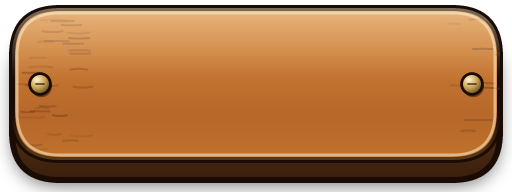
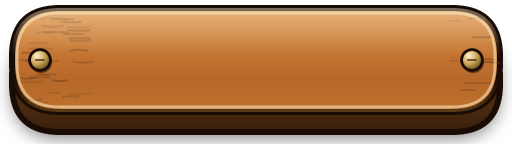
🎨 fix: wood buttons no longer squash their own art: rivets round again, ends intact (owner's screenshots)
Cause: the button art was 96 px tall with 30+30 margins and its brass studs sat at mid-height inside the STRETCHED middle band, while the buttons were 56-72 px tall (56 is below the 60 px of margins). The band was squeezed to a fraction, so the round studs became dashes and the straight ends pinched. The stranger pass saw only the symptom (text 3 px low) and the first fix moved label margins instead of looking at the art. Now: art redrawn 72 px tall (rebuilt through VectorCraft), the top margin (36) covers the whole stud so it is never stretched, bottom margin 26, minimum height 62; every button is at least 64 (Ui.MIN_ART_BUTTON_HEIGHT) and the code box matches Join. Text centring re-measured on the new art: within 1 px for PrimaryButton and Button, normal and pressed. Test pins the minimum heights. Verified on a 2x zoom of the rendered title: round studs, intact lips on Create, Join and Settings.

Claude-Session: https://claude.ai/code/session_01K6nrEBpN4FLdJ6qPP67z4p

diff --git a/godot/themes/flash/art/src/gen_ui.py b/godot/themes/flash/art/src/gen_ui.py
@@ -63,8 +63,10 @@ def card_frame():
 
 def button(pressed):
     name = "button_wood_pressed" if pressed else "button_wood"
-    s = Svg(256, 96, name)
-    W, H = 256, 96
+    # 72 px tall (it was 96). The studs sit inside the TOP margin (36 px) so they are never stretched; the stretched middle band
+    # is plain wood only. A button must be at least top+bottom margin = 62 px tall (the UI uses 64 and 72).
+    s = Svg(256, 72, name)
+    W, H = 256, 72
     lip = 3 if pressed else 10
     top = 9 if pressed else 4  # the face sinks when pressed
     fx, fy, fw = 6, top, W - 12
